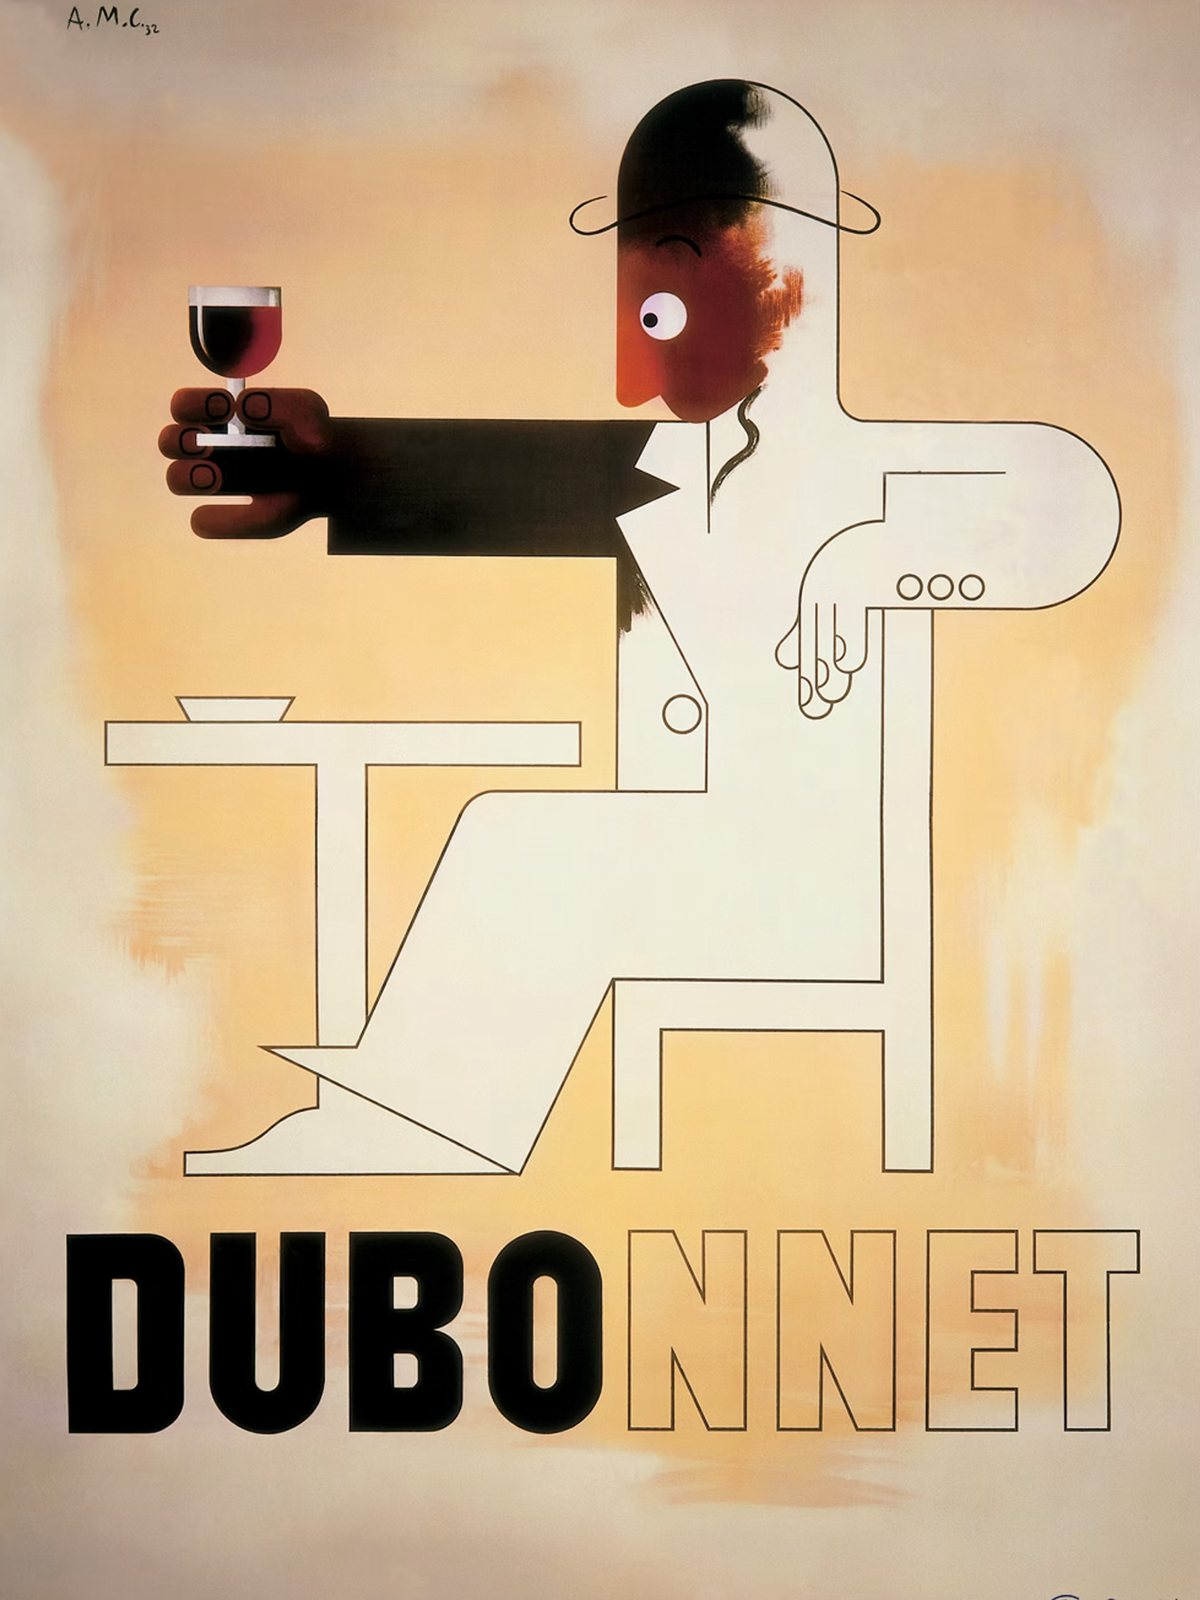
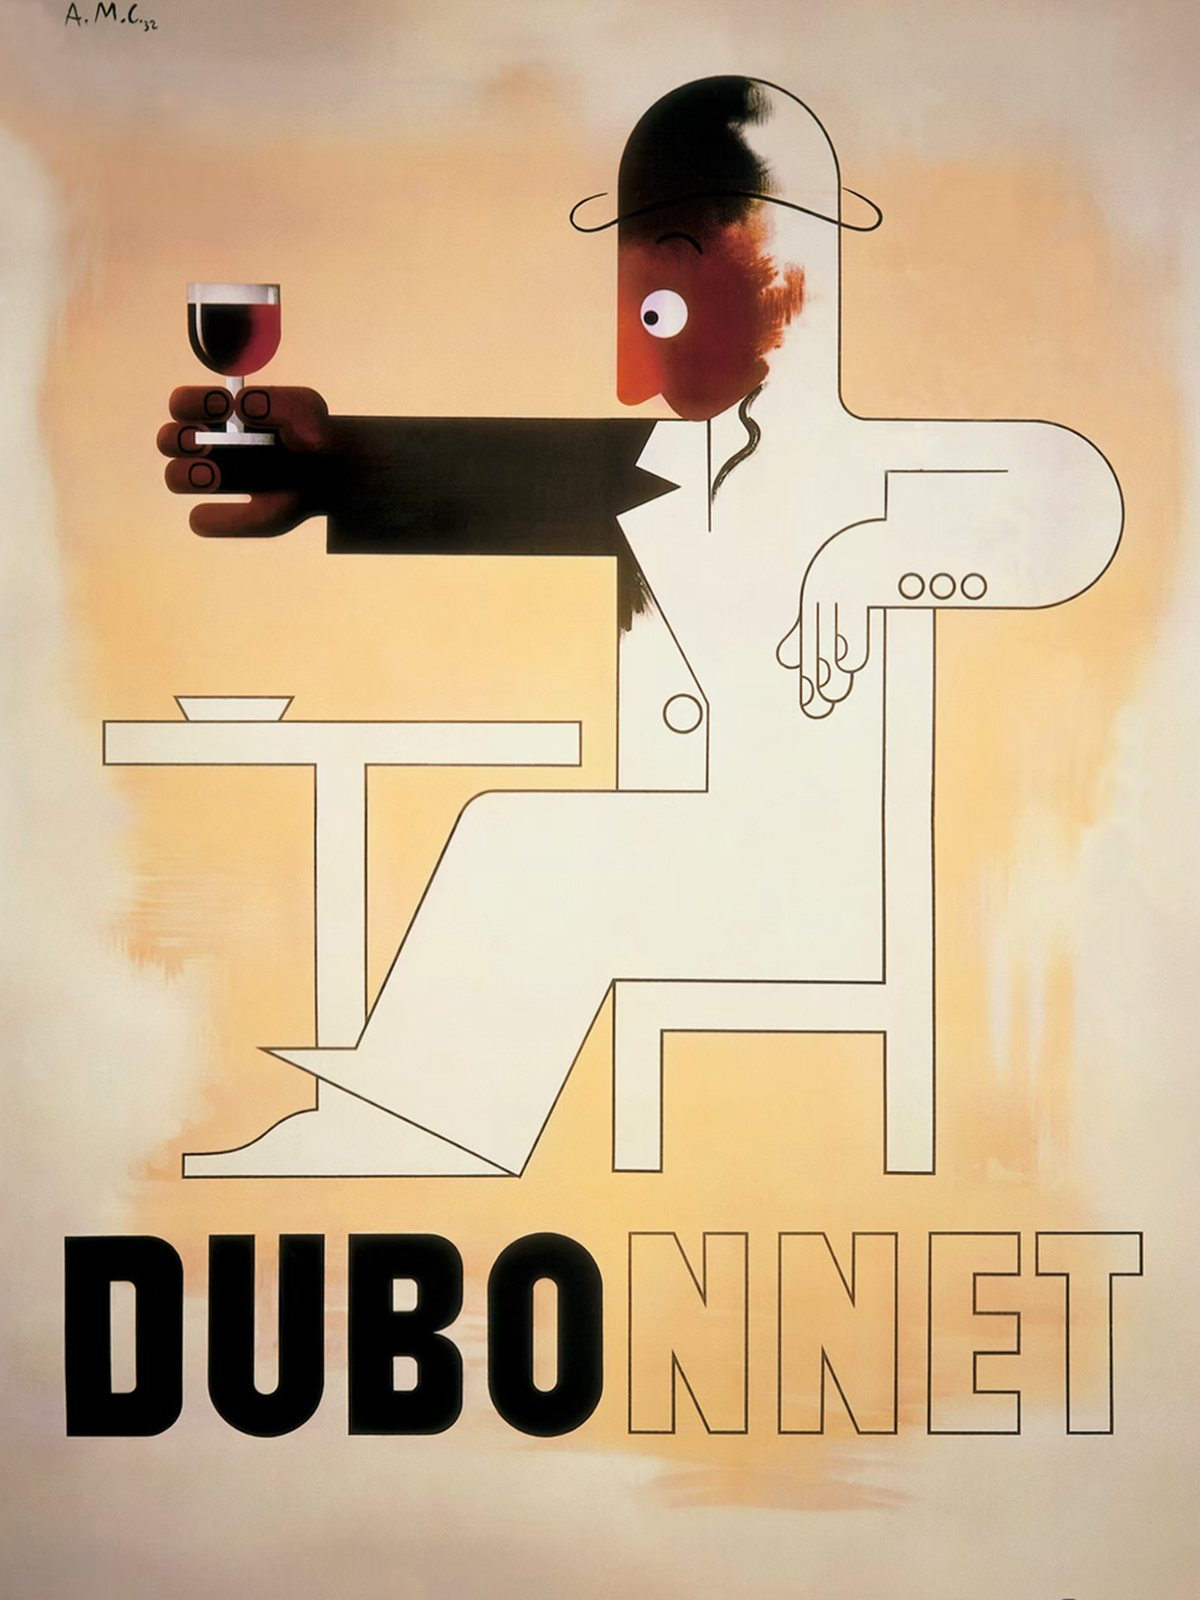
Cassandre : images finales d'Eliott pour les neuf étapes
Claude-Session: https://claude.ai/code/session_01Gyu8jkKqdWFJxBWXQ5ZYK5

diff --git a/artistes/c-cassandre.js b/artistes/c-cassandre.js
@@ -9,7 +9,7 @@
 // À fournir par Eliott : c-ref.jpg (le triptyque en largeur), et si possible les neuf étapes.
 
 const MOT = 'DUBONNET';
-const ETAPES = 9;                        // img/c/etape-0.jpg … etape-8.jpg (images d'Eliott, 1200 × 1600 ; PROVISOIRES le 13/11 à 3 h 40, les finales arrivent)
+const ETAPES = 9;                        // img/c/etape-0.jpg … etape-8.jpg (images finales d'Eliott, reçues le 13/11 à 4 h, recadrées en 1200 × 1600)
 const PANNEAUX = [0, 1 / 3, 2 / 3, 1];   // bords des trois panneaux dans img/c/ref.jpg, en part de la largeur (à caler sur l'image)
 const FAUSSE_LETTRE = 'rien';            // 'rien' : une fausse lettre ne change rien ; 'debut' : elle renvoie au début
 const PAPIER = '#efe2c4', NOIR = '#17130f';
